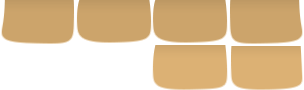
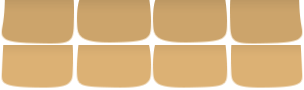
Добавлены и подрезаны фоны социалок в футере + цвет социалок указан для SVG

Changed region(s): [[0.0, 0.4889, 1.0, 1.0], [0.7401, 0.4889, 1.0, 0.5333]]

diff --git a/src/template/layout/footer.html b/src/template/layout/footer.html
@@ -74,10 +74,51 @@
         </div>
 
         <div class="footer--social">
-            <a href="#" class="footer--social--link f"><img src="assets/img/footer/social/f.svg" alt=""></a>
-            <a href="#" class="footer--social--link vk"><img src="assets/img/footer/social/vk.svg" alt=""></a>
-            <a href="#" class="footer--social--link g"><img src="assets/img/footer/social/g.svg" alt=""></a>
-            <a href="#" class="footer--social--link insta"><img src="assets/img/footer/social/insta.svg" alt=""></a>
+            <a href="#" class="footer--social--link f">
+                <svg version="1.1" id="Layer_1" xmlns="http://www.w3.org/2000/svg" xmlns:xlink="http://www.w3.org/1999/xlink" x="0px" y="0px"
+                     viewBox="0 0 53.5 57" style="enable-background:new 0 0 53.5 57;" xml:space="preserve">
+                <path id="XMLID_519_" d="M24.6,12c-2.5,1.9-2.5,6.5-2.5,6.5V23h-5.3v6.2H22v16.1h6.5V29.3l5.4,0l0.8-6.3h-6.2c0,0,0.1-0.5,0.1-4
+                    c0-3.5,3-2.9,3-2.9H35v-5.7c0,0-1.4-0.1-3.7-0.2C28.9,10.1,27.1,10.1,24.6,12z"/>
+                </svg>
+            </a>
+            <a href="#" class="footer--social--link vk">
+                <svg version="1.1" id="Layer_1" xmlns="http://www.w3.org/2000/svg" xmlns:xlink="http://www.w3.org/1999/xlink" x="0px" y="0px"
+                     viewBox="0 0 53.5 57" style="enable-background:new 0 0 53.5 57;" xml:space="preserve">
+                <path id="XMLID_520_" d="M38.6,30.8c-1-1,0.8-2.9,0.8-2.9s2.4-3.1,2.9-3.9c0.5-0.8,1.3-1.8,1.9-3.4c0.5-1.6-1.2-1.4-1.2-1.4
+                    s-6.1,0-6.6,0.1c-0.5,0-0.7,0.6-1,1.2c-0.2,0.6-0.9,2.2-2.4,4.7c-1.5,2.5-2.6,3.3-3,3.3c-0.4,0-1-0.7-1-1.9c0-1.2,0.2-4.4,0.1-5.9
+                    s-0.5-1.9-1.8-2.1c-1.3-0.2-3.3-0.2-5.2-0.1c-1,0.1-1.7,0.5-2.1,0.8c-0.2,0.2-0.1,0.5,0.1,0.6c0.2,0.1,0.4,0.1,0.7,0.2
+                    c1,0.4,1.2,1.6,1.2,3.9c0.1,2.3-0.3,4.6-1.1,4.5c-0.9-0.1-1.4-1-2.9-3.3c-1-1.6-2-3.8-2.6-5c-0.2-0.6-0.8-0.9-1.4-0.9H8.8
+                    c-0.7,0-1.2,0.8-0.9,1.4c0,0,0,0,0,0c0.3,0.7,2.4,4.8,4.4,8.3c1.9,3.5,3.9,5.8,7,8.1c3.1,2.3,7.2,1.9,8.6,1.9s1.3-1.6,1.4-2.3
+                    c0-0.7,0.4-2.4,1.5-2.4c1.1,0,3.8,3.4,3.8,3.4c1.3,1.5,3.2,1.4,3.2,1.4s3.5-0.1,4.2-0.1c0.7,0,1.8,0,2.2-0.9c0.4-0.8-1-2.4-1.5-3.1
+                    C42.1,34.3,39.5,31.8,38.6,30.8z"/>
+                </svg>
+            </a>
+            <a href="#" class="footer--social--link g">
+                <svg version="1.1" id="Layer_1" xmlns="http://www.w3.org/2000/svg" xmlns:xlink="http://www.w3.org/1999/xlink" x="0px" y="0px"
+                     viewBox="0 0 53.5 57" style="enable-background:new 0 0 53.5 57;" xml:space="preserve">
+                <path id="XMLID_529_" d="M17.4,25.7L17.4,25.7l0,5.3h9.8c-1.3,4.2-5.2,7.2-9.8,7.2c-5.6,0-10.2-4.6-10.2-10.2s4.6-10.2,10.2-10.2
+                    c2.5,0,4.9,0.9,6.6,2.5l4.3-4.3c-2.9-2.6-6.7-4.3-11-4.3C8.4,11.7,1.1,19,1.1,28c0,9,7.3,16.3,16.3,16.3c9,0,16.3-7.3,16.3-16.3
+                    c0-0.8-0.1-1.5-0.2-2.3H17.4z"/>
+                <polygon id="XMLID_530_" points="47.9,25.7 47.9,21.1 43.2,21.1 43.2,25.7 38.6,25.7 38.6,30.4 43.2,30.4 43.2,35 47.9,35
+                    47.9,30.4 52.5,30.4 52.5,25.7 "/>
+                </svg>
+            </a>
+            <a href="#" class="footer--social--link insta">
+                <svg version="1.1" id="Layer_1" xmlns="http://www.w3.org/2000/svg" xmlns:xlink="http://www.w3.org/1999/xlink" x="0px" y="0px"
+	 viewBox="0 0 53.5 57" style="enable-background:new 0 0 53.5 57;" xml:space="preserve">
+                <g id="XMLID_199_">
+                    <path id="XMLID_203_" d="M47.4,18.9c0-6.7-5.5-12.2-12.3-12.2c-0.5,0-4-0.3-8.4-0.3c-4.4,0-8.1,0.2-8.6,0.3
+                        c-6.7,0-12.2,5.5-12.3,12.2c-0.1,0.5-0.3,3-0.3,8.4c0,5.6,0.2,8.8,0.3,9.3c0,6.7,5.5,12.2,12.3,12.2c0.3,0,3.1,0.1,8.3,0.1
+                        c5.2,0,8.3-0.1,8.6-0.1c6.8,0,12.3-5.5,12.3-12.3c0-0.5,0.3-4.3,0.3-9C47.7,22.9,47.4,19.4,47.4,18.9z M43.9,36.4l0,0.1
+                        c0,4.9-4,8.8-8.8,8.8l0,0c0,0-3.2,0.1-8.6,0.1c-5.4,0-8.2-0.1-8.2-0.1l0,0c-4.9,0-8.8-4-8.8-8.8l0-0.1c0,0-0.3-3.3-0.3-9.1
+                        c0-5.8,0.3-8.1,0.3-8.1l0-0.1V19c0-4.9,4-8.8,8.8-8.8l0.1,0c0,0,4-0.3,8.5-0.3c4.5,0,8.2,0.2,8.2,0.3l0.1,0c4.9,0,8.8,4,8.8,8.8
+                        l0,0.1c0,0,0.3,3.7,0.3,8.5C44.2,32.4,43.9,36.4,43.9,36.4z"/>
+                    <path id="XMLID_224_" d="M27,16.8c-6,0-10.9,4.9-10.9,10.9S21,38.6,27,38.6c6,0,10.9-4.9,10.9-10.9S33,16.8,27,16.8z M27,35.1
+                        c-4.1,0-7.4-3.3-7.4-7.4c0-4.1,3.3-7.4,7.4-7.4c4.1,0,7.4,3.3,7.4,7.4C34.4,31.7,31,35.1,27,35.1z"/>
+                    <circle id="XMLID_228_" cx="38" cy="16.5" r="2.6"/>
+                </g>
+                </svg>
+            </a>
         </div>
 
         <div class="text-center">

diff --git a/src/assets/style/layout/_footer.scss b/src/assets/style/layout/_footer.scss
@@ -132,17 +132,19 @@
             @include size(80px, 49px);*/
             background-image: url(../img/footer/social.png);
             background-repeat: no-repeat;
+            background-position: 0 100%;
             border-bottom-left-radius: 25%;
             border-bottom-right-radius: 25%;
             box-shadow: 0 10px 30px -10px rgba(0,0,0,.4);
             margin: 0 14px;
             vertical-align: top;
             @include size(76px, 44px);
+            transition: box-shadow 0.3s ease-out, margin-bottom 0.3s ease-out, height 0.3s ease-out;
 
             &:hover {
                 box-shadow: 0 10px 15px -10px rgba(0,0,0,.3);
-                margin-bottom: -1px;
-                @include size(76px, 45px);
+                /*margin-bottom: -1px;
+                @include size(76px, 45px);*/
             }
 
             &.f {
@@ -177,7 +179,8 @@
                 }
             }
 
-            img {
+            img, svg {
+                fill: #55423b;
                 margin-top: 3px;
                 @include size(auto, 75%);
             }
